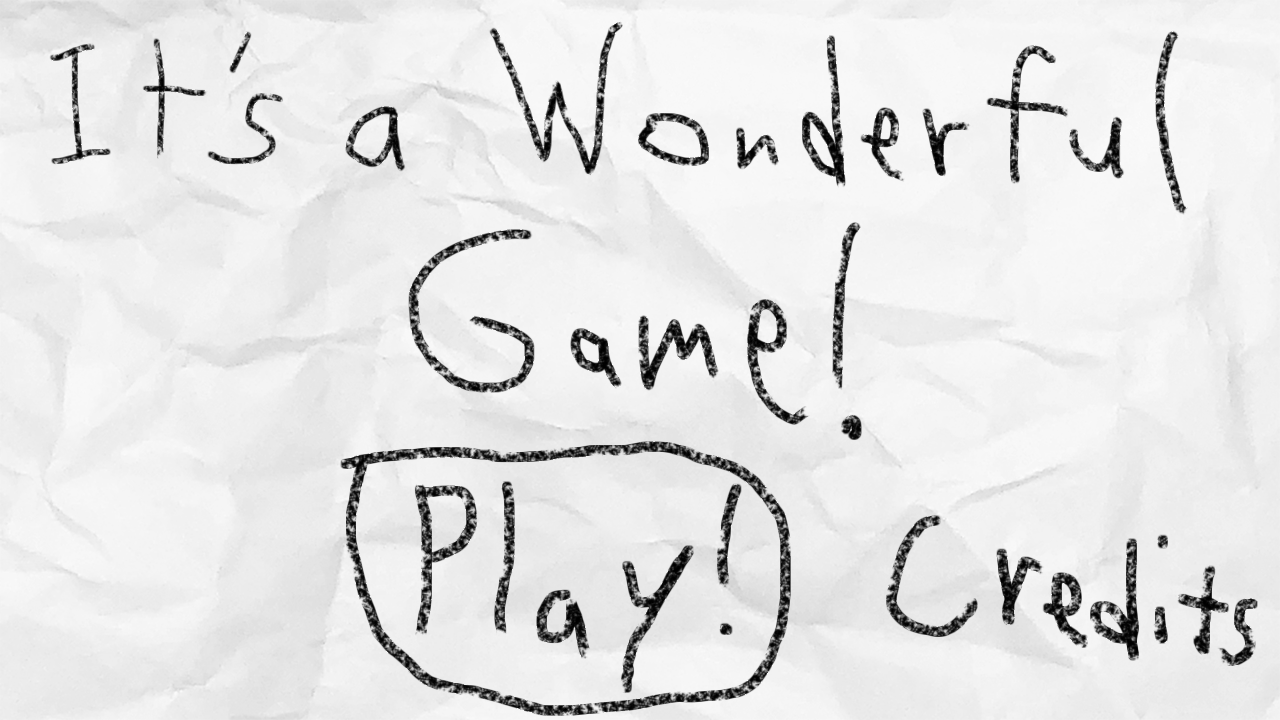
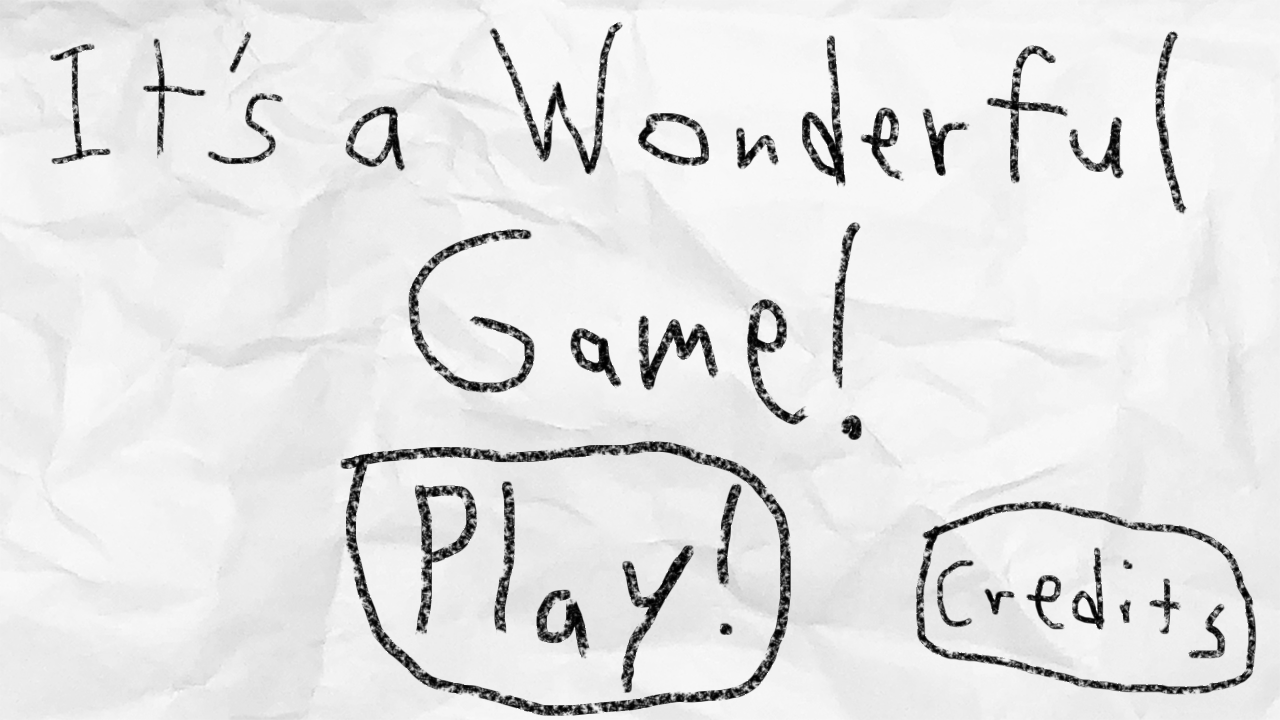
Ice cream scene and credits done

Changed region(s): [[0.6875, 0.6722, 1.0, 0.9778]]

diff --git a/src/scenes/iceCreamScene.js b/src/scenes/iceCreamScene.js
@@ -10,11 +10,16 @@ class iceCreamScene extends Phaser.Scene {
 
     this.load.image('characterPlayer', './assets/george.png');
 
-    this.load.image('characterCustomer', './assets/mary.png');
+    this.load.image('mary', './assets/mary.png');
+    this.load.image('violet', './assets/youngViolet.png');
+    this.load.image('boy', './assets/boy.png');
 
     this.load.image('cherry', './assets/cherry.png');
     this.load.image('choppedNuts', './assets/chopped_nuts.png');
     this.load.image('coconut', './assets/coconut.png');
+    this.load.image('vanilla', './assets/vanillaSelect.png');
+    this.load.image('chocolate', './assets/chocolateSelect.png');
+    this.load.image('strawberry', './assets/strawberrySelect.png');
 
     this.load.audio('buttonClick', './assets/buttonClick.wav');
     this.load.audio('orderPresent', './assets/orderPresent.wav');
@@ -22,16 +27,16 @@ class iceCreamScene extends Phaser.Scene {
   }
 
   create() {
-
+    const self = this;
     // Background for the scene (the ice cream shop)
     this.iceCreamSceneBackdrop = this.add.tileSprite(0, 0, gameConfiguration.width, gameConfiguration.height, 'iceCreamShop').setOrigin(0, 0);
-
-    this.ingredientIconsBackground = this.add.rectangle(gameConfiguration.width / 2 + 270, 20, 170, 60, 0x404040).setOrigin(0, 0);
+    // UI elements
+    this.ingredientIconsBackground = this.add.rectangle(gameConfiguration.width / 2 + 270, 20, 170, 100, 0x404040).setOrigin(0, 0);
 
     this.playerInputBackground = this.add.rectangle(gameConfiguration.width / 2 - 585, 290 - 70, 55 * gameConfiguration.sceneSettings.iceCreamScene.playerInventoryCap, 60, 0x404040).setOrigin(0, 0);
     this.playerInputBackground.alpha = 1;
 
-    this.orderBackground = this.add.rectangle(415, 290, 55 * gameConfiguration.sceneSettings.iceCreamScene.customerOrderComplexity[1], 60, 0x404040).setOrigin(0, 0);
+    this.orderBackground = this.add.rectangle(415, 290, 55 * gameConfiguration.sceneSettings.iceCreamScene.customerOrderComplexity[1] + 55, 60, 0x404040).setOrigin(0, 0);
     this.orderBackground.alpha = 0;
 
     let tutorialTextConfig = {
@@ -50,7 +55,7 @@ class iceCreamScene extends Phaser.Scene {
 
     let scoreTextConfig = {
       fontFamily: 'Courier',
-      fontSize: '40px',
+      fontSize: '30px',
       backgroundColor: '#404040FF',
       color: '#FFFFFFFF',
       align: 'left',
@@ -63,7 +68,7 @@ class iceCreamScene extends Phaser.Scene {
     }
 
     this.tutorialText = this.add.text(gameConfiguration.width / 2 - 50, 50, "Match your list of ingredients\nwith the customer's list of ingredients (order matters)\nClick the ingredients at the top right to select them", tutorialTextConfig).setOrigin(0.5, 0.5);
-    this.scoreText = this.add.text(gameConfiguration.width / 2 - gameConfiguration.width / 2.5, gameConfiguration.height / 2 - gameConfiguration.height / 2.5, "CENTS: 0", scoreTextConfig).setOrigin(0.5, 0.5);
+    this.scoreText = this.add.text(gameConfiguration.width / 2 - gameConfiguration.width / 2.5, gameConfiguration.height / 2 - gameConfiguration.height / 2.5, "CENTS: 0/100", scoreTextConfig).setOrigin(0.5, 0.5);
 
     this.sceneTimeText = this.add.text(gameConfiguration.width / 2 - gameConfiguration.width / 2.5, gameConfiguration.height / 2 - gameConfiguration.height / 2.5 + 75, "TIME: 0", scoreTextConfig).setOrigin(0.5, 0.5);
 
@@ -74,24 +79,41 @@ class iceCreamScene extends Phaser.Scene {
     this.currentCustomersArray = []; // customers that are currently active in the game
     this.customerSpawnTimer = 0; // timer to spawn a new customer
 
+    // clickable ingredients to add to the order
     this.ingredientCherry = new Ingredient(this, gameConfiguration.width / 2 + 300, 50, 'cherry', 0, 'cherry', true).setOrigin(0.5, 0.5);
     this.ingredientChoppedNuts = new Ingredient(this, gameConfiguration.width / 2 + 350, 50, 'choppedNuts', 0, 'choppedNuts', true).setOrigin(0.5, 0.5);
     this.ingredientCoconut = new Ingredient(this, gameConfiguration.width / 2 + 400, 50, 'coconut', 0, 'coconut', true).setOrigin(0.5, 0.5);
+    
+    this.flavorVanilla = new Ingredient(this, gameConfiguration.width / 2 + 300, 100, 'vanilla', 0, 'vanilla', true).setOrigin(0.5, 0.5);
+    this.flavorChocolate = new Ingredient(this, gameConfiguration.width / 2 + 350, 100, 'chocolate', 0, 'chocolate', true).setOrigin(0.5, 0.5);
+    this.flavorStrawberry = new Ingredient(this, gameConfiguration.width / 2 + 400, 100, 'strawberry', 0, 'strawberry', true).setOrigin(0.5, 0.5);
 
+    // pools of ingredients that the player and customers have access to
     this.ingredientsArray = [
       this.ingredientCherry,
       this.ingredientChoppedNuts,
       this.ingredientCoconut
-    ]; // pool of ingredients that the player and customers have access to
+    ];
+    this.flavorArray = [
+      this.flavorVanilla,
+      this.flavorChocolate,
+      this.flavorStrawberry
+    ];
     this.currentIngredientsArray = []; // ingredients the player currently has in their inventory
-    
     this.currentOrder = [];
+    this.resetButton = this.add.rectangle(gameConfiguration.width / 2 + 300, 130, 100, 50, 0x404040).setOrigin(0, 0);
+    this.resetButton.setInteractive();
+    this.resetButton.on('pointerdown', function() {
+      self.clearInventory();
+    })
+    this.resetText = this.add.text(gameConfiguration.width / 2 + 300, 130, "RESET", scoreTextConfig).setOrigin(0, 0);
 
     this.currentScore = 0;
 
     this.sceneTime = gameConfiguration.sceneSettings.iceCreamScene.sceneTimeLimit;
   }
 
+  // make a new order for the current customer
   getOrder(customer) {
     this.orderBackground.alpha = 1;
     for (let customerFavoriteIngredientsItem = 0; customerFavoriteIngredientsItem < customer.favoriteIngredients.length; customerFavoriteIngredientsItem += 1) {
@@ -101,6 +123,7 @@ class iceCreamScene extends Phaser.Scene {
     }
   }
 
+  // clear the customer's order
   clearOrder() {
     this.orderBackground.alpha = 0;
     while (this.currentOrder.length > 0) {
@@ -109,6 +132,15 @@ class iceCreamScene extends Phaser.Scene {
     }
   }
 
+  // clear all ingredients the player has clicked
+  clearInventory() {
+    while (this.characterPlayer.ingredientsInventory.length > 0) {
+      let inventoryIngredient = this.characterPlayer.ingredientsInventory.pop();
+      inventoryIngredient.destroy();
+    }
+  }
+
+  // check if order is complete
   comparePlayerWithCustomer(customer) {
     let playerIngredients = this.characterPlayer.ingredientsInventory;
     let customerIngredients = customer.favoriteIngredients;
@@ -131,56 +163,72 @@ class iceCreamScene extends Phaser.Scene {
 
     this.sceneTime -= 1 * gameConfiguration.gameSpeed / globalVariables.gameDelta;
 
-    if (this.sceneTime <= 0) {
-      this.scene.start('transitionScene');
+    // check if player has passed
+    if (this.currentScore >= 100) {
+      globalVariables.endingCriteria.iceCream = true;
+      console.log(globalVariables.endingCriteria.iceCream);
     }
 
+    // send player to transition scene when time ends
+    if (this.sceneTime <= 0) {
+      this.scene.start('transitionScene');
+      console.log(globalVariables.endingCriteria.iceCream + " end");
+    }
+
+    // timer update
     if (Math.floor(this.sceneTime % 60) < 10) {
       this.sceneTimeText.text = `TIME: ${Math.floor(this.sceneTime / 60)}:0${Math.floor(this.sceneTime % 60)}`;
     } else {
       this.sceneTimeText.text = `TIME: ${Math.floor(this.sceneTime / 60)}:${Math.floor(this.sceneTime % 60)}`;
     }
 
+    // when the player clicks an ingredient
     if (globalVariables.ingredientSelected) {
       globalVariables.ingredientSelected = false;
-
+      // clear if player already had 3 ingredients
       if (this.characterPlayer.ingredientsInventory.length >= gameConfiguration.sceneSettings.iceCreamScene.playerInventoryCap) {
-        while (this.characterPlayer.ingredientsInventory.length > 0) {
-          let inventoryIngredient = this.characterPlayer.ingredientsInventory.pop();
-          inventoryIngredient.destroy();
-        }
+        this.clearInventory();
       }
-
+      // add clicked ingredient to order
       let newIngredient = new Ingredient(this, gameConfiguration.width / 2 - 555 + 50 * this.characterPlayer.ingredientsInventory.length, 320 - 70, globalVariables.lastIngredientSelected, 0, globalVariables.lastIngredientSelected, false).setOrigin(0.5, 0.5);
       this.characterPlayer.ingredientsInventory.push(newIngredient);
     }
 
-    this.scoreText.text = "CENTS: " + this.currentScore;
+    this.scoreText.text = "CENTS: " + this.currentScore + "/100"; // update score
 
+    // spawn timer control
     if (this.currentCustomersArray.length < gameConfiguration.sceneSettings.iceCreamScene.customersCap) {
       this.customerSpawnTimer += 1 * gameConfiguration.gameSpeed / globalVariables.gameDelta;
     }
 
+    // spawn a new customer
     if (this.customerSpawnTimer >= gameConfiguration.sceneSettings.iceCreamScene.customerSpawnTime) {
       this.customerSpawnTimer = 0;
       if (this.currentCustomersArray.length < gameConfiguration.sceneSettings.iceCreamScene.customersCap) {
-        let newCustomer = new Customer(this, gameConfiguration.width, gameConfiguration.height, 'characterCustomer', 0).setOrigin(0.5, 0.5);
+        let newCustomer = new Customer(this, gameConfiguration.width, gameConfiguration.height, 'mary', 0).setOrigin(0.5, 0.5);
+        if (Phaser.Math.Between(0, 2) == 1) {
+          newCustomer.setTexture('violet', 0);
+        }
+        if (Phaser.Math.Between(0, 2) == 2) {
+          newCustomer.setTexture('boy', 0);
+        }
         newCustomer.x -= newCustomer.width / 2 + 150;
         newCustomer.y -= newCustomer.height / 2;
-        newCustomer.selectFavoriteIngredients(this.ingredientsArray);
+        newCustomer.selectFavoriteIngredients(this.ingredientsArray, this.flavorArray);
         // console.log(newCustomer.favoriteIngredients);
         this.currentCustomersArray.push(newCustomer);
       }
     }
 
+    // core game loop
     for (let customersArrayItem = 0; customersArrayItem < this.currentCustomersArray.length; customersArrayItem += 1) {
       let currentCustomer = this.currentCustomersArray[customersArrayItem];
-
+      // check if order is correct
       if (currentCustomer.status == "ordering") {
         if (this.comparePlayerWithCustomer(currentCustomer)) {
           currentCustomer.status = "satisfied";
         }
-      } else if (currentCustomer.status == "satisfied") {
+      } else if (currentCustomer.status == "satisfied") { // if order is already correct, clear customer
         let poppedCustomer = this.currentCustomersArray.splice(customersArrayItem, 1)[0];
         poppedCustomer.destroy();
         customersArrayItem -= 1;
@@ -192,7 +240,7 @@ class iceCreamScene extends Phaser.Scene {
           inventoryIngredient.destroy();
         }
         continue;
-      } else if (currentCustomer.status == "waiting") {
+      } else if (currentCustomer.status == "waiting") { // if current customer is not at the front move them forward
         let currentCustomerTargetPosition = 500 + (currentCustomer.width * 1.5 * customersArrayItem);
         if (currentCustomer.x > currentCustomerTargetPosition) {
           currentCustomer.x -= 200 * gameConfiguration.gameSpeed / globalVariables.gameDelta;

diff --git a/src/scenes/creditsScene.js b/src/scenes/creditsScene.js
@@ -4,17 +4,16 @@ class creditsScene extends Phaser.Scene {
   }
 
   preload() {
-      // this.load.image('title', './assets/title.png');
+      this.load.image('credits', './assets/credits.png');
   }
 
   create() {
       const self = this;
-
+      this.bg = this.add.tileSprite(0, 0, gameConfiguration.width, gameConfiguration.height, 'credits').setOrigin(0, 0);
       let creditsTextConfig = {
-        fontFamily: 'CourierBold',
+        fontFamily: 'Courier',
         fontSize: '32px',
-        backgroundColor: '#202020FF',
-        color: '#FFFFFF',
+        color: '#000000',
         align: 'left',
         padding: {
             top: 5,
@@ -29,10 +28,10 @@ class creditsScene extends Phaser.Scene {
 
       this.creditsText = this.add.text(gameConfiguration.width / 2, gameConfiguration.height / 2, "", creditsTextConfig).setOrigin(0.5, 0.5);
 
-      this.creditsText.text = "Samuel Hadus:\n-Art\n-Design\n-Programming\n\nBrannon Eakles:\n-Design\n-Programming"
+      this.creditsText.text = "Samuel Maturo:\n-Art\n-Design\n-Some Programming\n\nBrannon Eakles:\n-Design\n-Programming"
 
-      this.backButton = this.add.rectangle(20, 500, 400, 175, 0x808080).setOrigin(0, 0);
-      this.backButton.alpha = 0.5;
+      this.backButton = this.add.rectangle(80, 500, 400, 175, 0x808080).setOrigin(0, 0);
+      this.backButton.alpha = 0.01;
       this.backButton.setInteractive();
       this.backButton.on('pointerdown', function(pointer) {
           self.scene.start('titleScreen');

diff --git a/src/prefabs/Customer.js b/src/prefabs/Customer.js
@@ -17,8 +17,10 @@ class Customer extends Phaser.GameObjects.Sprite {
     this.withdrawMood = "happy";
   }
 
-  selectFavoriteIngredients(ingredientsArray) {
+  selectFavoriteIngredients(ingredientsArray, flavorArray) {
     let randomIngredientAmount = Phaser.Math.Between(gameConfiguration.sceneSettings.iceCreamScene.customerOrderComplexity[0], gameConfiguration.sceneSettings.iceCreamScene.customerOrderComplexity[1]);
+    let selectedFlavor = flavorArray[Phaser.Math.Between(0, ingredientsArray.length - 1)];
+    this.favoriteIngredients.push(selectedFlavor);
     for (let ingredientSelectionCount = 0; ingredientSelectionCount < randomIngredientAmount; ingredientSelectionCount += 1) {
       let randomIngredient = ingredientsArray[Phaser.Math.Between(0, ingredientsArray.length - 1)];
       this.favoriteIngredients.push(randomIngredient);

diff --git a/src/scenes/transitionScene.js b/src/scenes/transitionScene.js
@@ -4,9 +4,26 @@ class transitionScene extends Phaser.Scene {
   }
 
   preload() {
+    this.load.image('bg', './assets/transition.png');
   }
 
   create() {
+    const self = this;
+    this.bg = this.add.tileSprite(0, 0, gameConfiguration.width, gameConfiguration.height, 'bg').setOrigin(0, 0);
+    let transitionTextConfig = {
+      fontFamily: 'Courier',
+      fontSize: '32px',
+      color: '#000000',
+      align: 'left',
+      padding: {
+          top: 5,
+          bottom: 5,
+          left: 5,
+          right: 5
+      }
+    }
+
+    this.mainText = this.add.text(gameConfiguration.width / 2, gameConfiguration.height / 2, "", creditsTextConfig).setOrigin(0.5, 0.5);
   }
 
   update(time, delta) {

diff --git a/src/main.js b/src/main.js
@@ -10,8 +10,8 @@ let gameConfiguration = {
             customersCap: 3,                    // maximum amount of customers that can be present on the screen at any given time
             customerSpawnTime: 2,               // time (in seconds) to wait before spawning a new customer
             customerOrderComplexity: [          // the range of the number of ingredients a customer's order can contain
-                1,
-                3
+                0,
+                2
             ],
             sceneTimeLimit: 120                 // time (in seconds) until the minigame ends and the player moves on to the next scene
         },

diff --git a/src/scenes/titleScreen.js b/src/scenes/titleScreen.js
@@ -18,7 +18,7 @@ class titleScreen extends Phaser.Scene {
         });
 
         this.creditsButton = this.add.rectangle(870, 500, 400, 175, 0x808080).setOrigin(0, 0);
-        this.creditsButton.alpha = 0.5;
+        this.creditsButton.alpha = 0.01;
         this.creditsButton.setInteractive();
         this.creditsButton.on('pointerdown', function(pointer) {
             self.scene.start('creditsScene');
